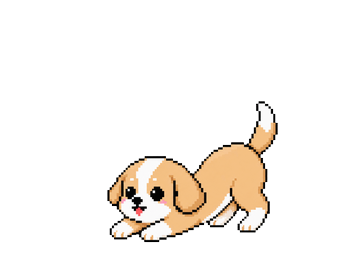
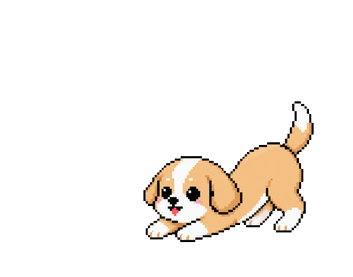
Anchor play frames on the head/front instead of full bbox center
Centering on the whole bbox let the swinging tail (right side) drag
the perceived body position left/right frame to frame, reading as
jitter. Now anchors each frame using the bbox of just its left ~50%
(head/chest/front legs, which barely move pose to pose) instead, so
the head stays in roughly the same spot through the cycle while the
tail is free to swing.

Also widen the pet-position IPC guard from a plain finite check to a
bounded range - traced the earlier crash to a huge-but-finite value
that passed Number.isFinite yet still failed Electron's native
setPosition binding.

Changed region(s): [[0.2805, 0.3466, 0.9037, 0.8953]]

diff --git a/electron/ipc/index.ts b/electron/ipc/index.ts
@@ -23,10 +23,19 @@ export function registerIpcHandlers({ configStore, getPetWindow, getSettingsWind
     const targetX = Math.round(x);
     const targetY = Math.round(y - SPEECH_HEADROOM_PX);
     // BrowserWindow.setPosition throws a native TypeError on NaN/Infinity -
-    // crashing the whole app with an ugly dialog instead of just dropping
-    // the one bad update. Guard rather than chase every possible NaN source.
-    if (!Number.isFinite(targetX) || !Number.isFinite(targetY)) {
-      console.error("[ipc] dropped non-finite pet position", { x, y });
+    // AND on merely huge-but-finite values (seen in practice: passed a
+    // plain Number.isFinite check yet still failed) - crashing the whole
+    // app with an ugly dialog instead of just dropping the one bad update.
+    // No real desktop position is anywhere near this magnitude, so bound
+    // it outright rather than keep chasing the exact source.
+    const MAX_COORD = 20000;
+    const valid =
+      Number.isFinite(targetX) &&
+      Number.isFinite(targetY) &&
+      Math.abs(targetX) <= MAX_COORD &&
+      Math.abs(targetY) <= MAX_COORD;
+    if (!valid) {
+      console.error("[ipc] dropped out-of-range pet position", { x, y, targetX, targetY });
       return;
     }
     getPetWindow()?.setPosition(targetX, targetY);
